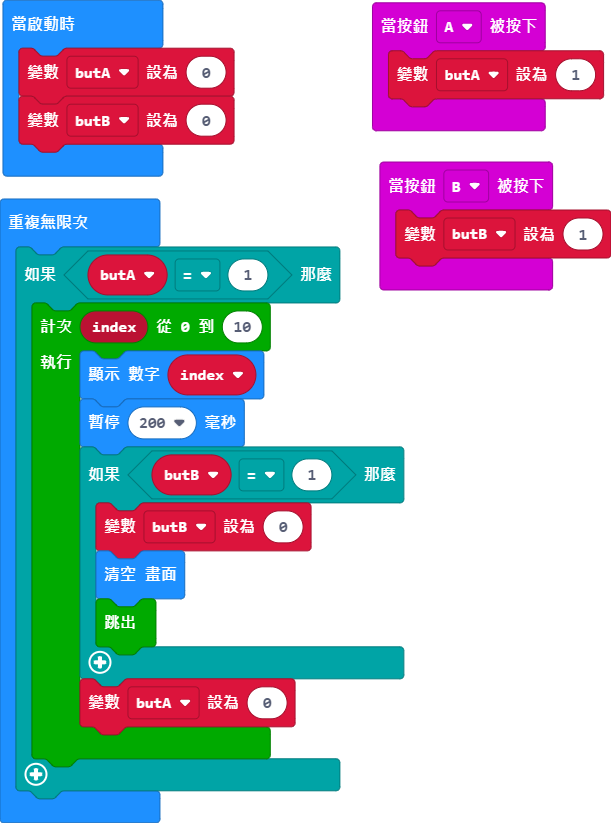
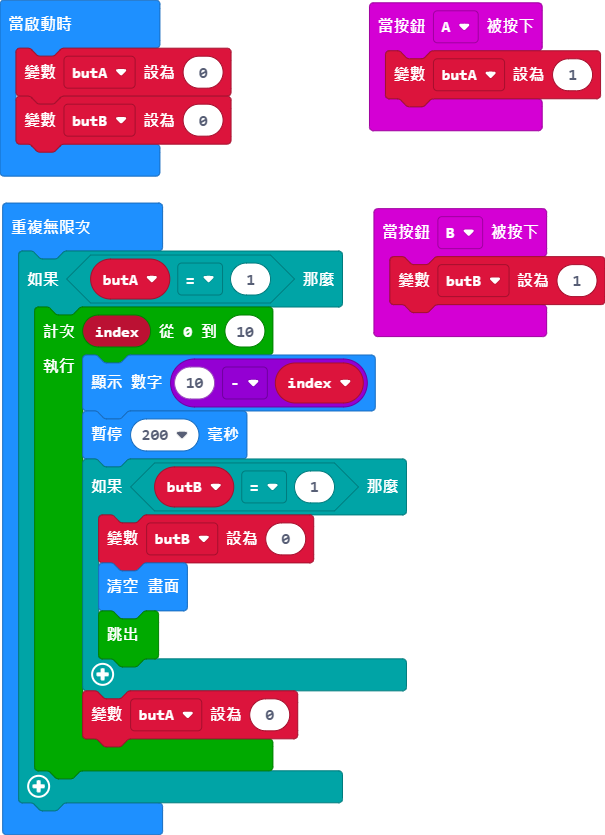
downcount

Changed region(s): [[0.0, 0.0, 1.0, 1.0], [0.476, 0.3038, 0.5653, 0.3645], [0.5355, 0.9113, 0.5653, 0.9721]]

diff --git a/main.ts b/main.ts
@@ -11,7 +11,7 @@ butB = 0
 basic.forever(function () {
     if (butA == 1) {
         for (let index = 0; index <= 10; index++) {
-            basic.showNumber(index)
+            basic.showNumber(10 - index)
             basic.pause(200)
             if (butB == 1) {
                 butB = 0
